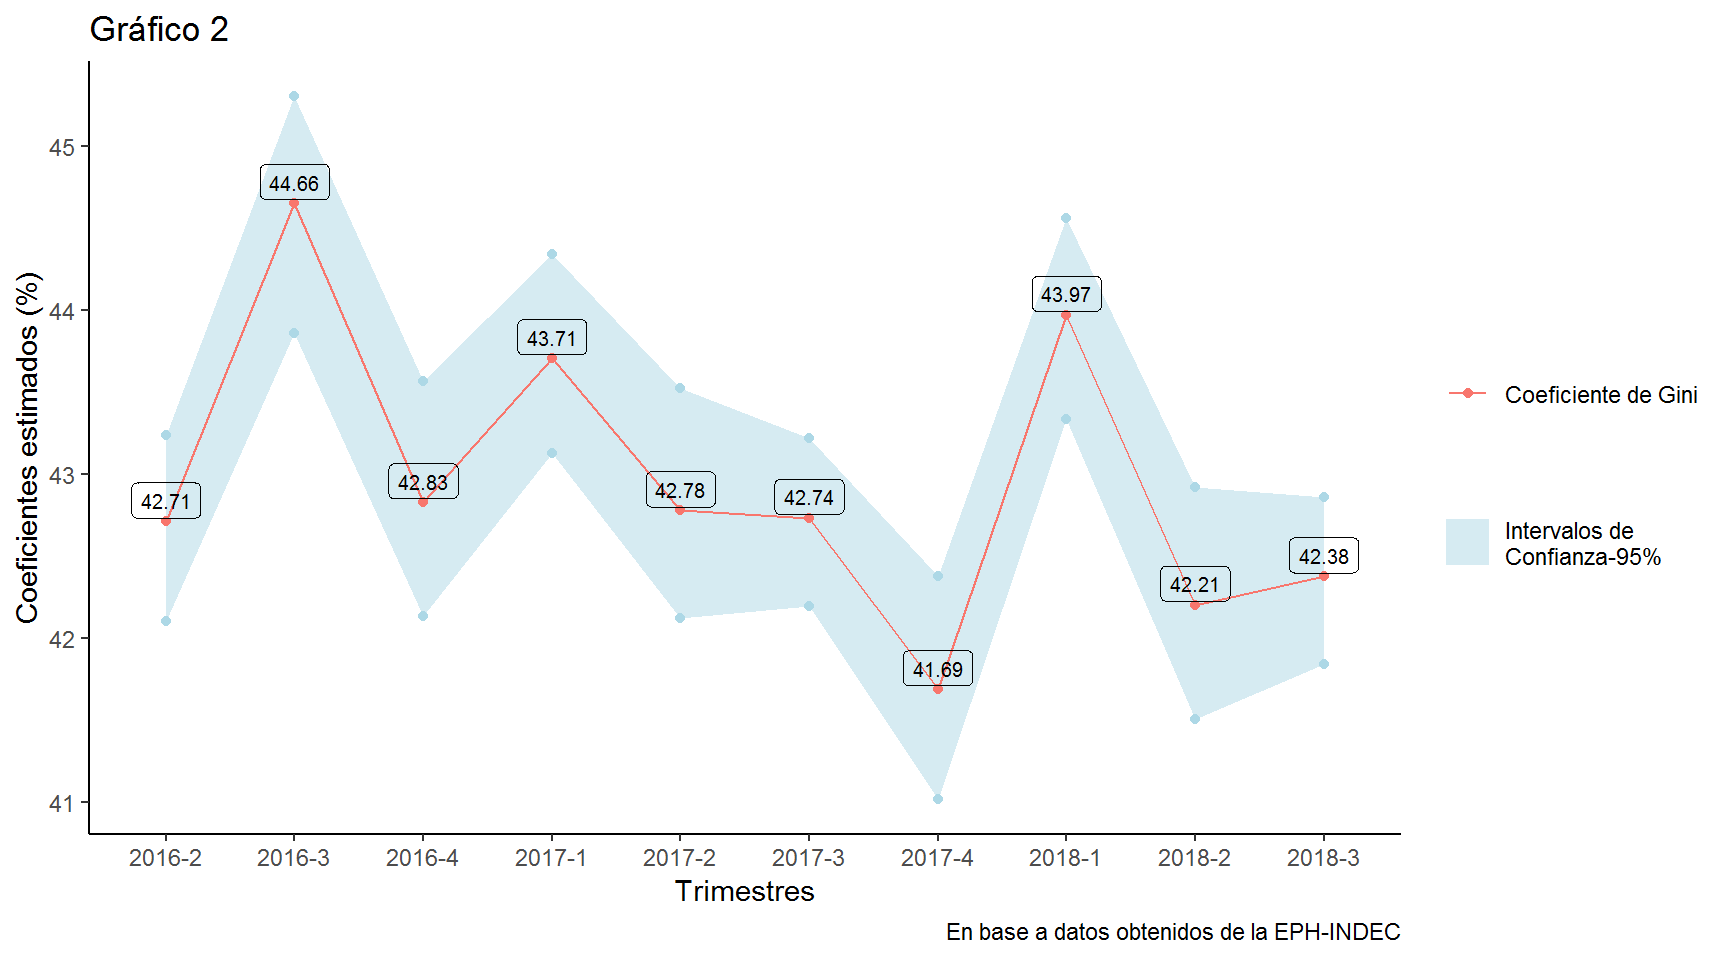
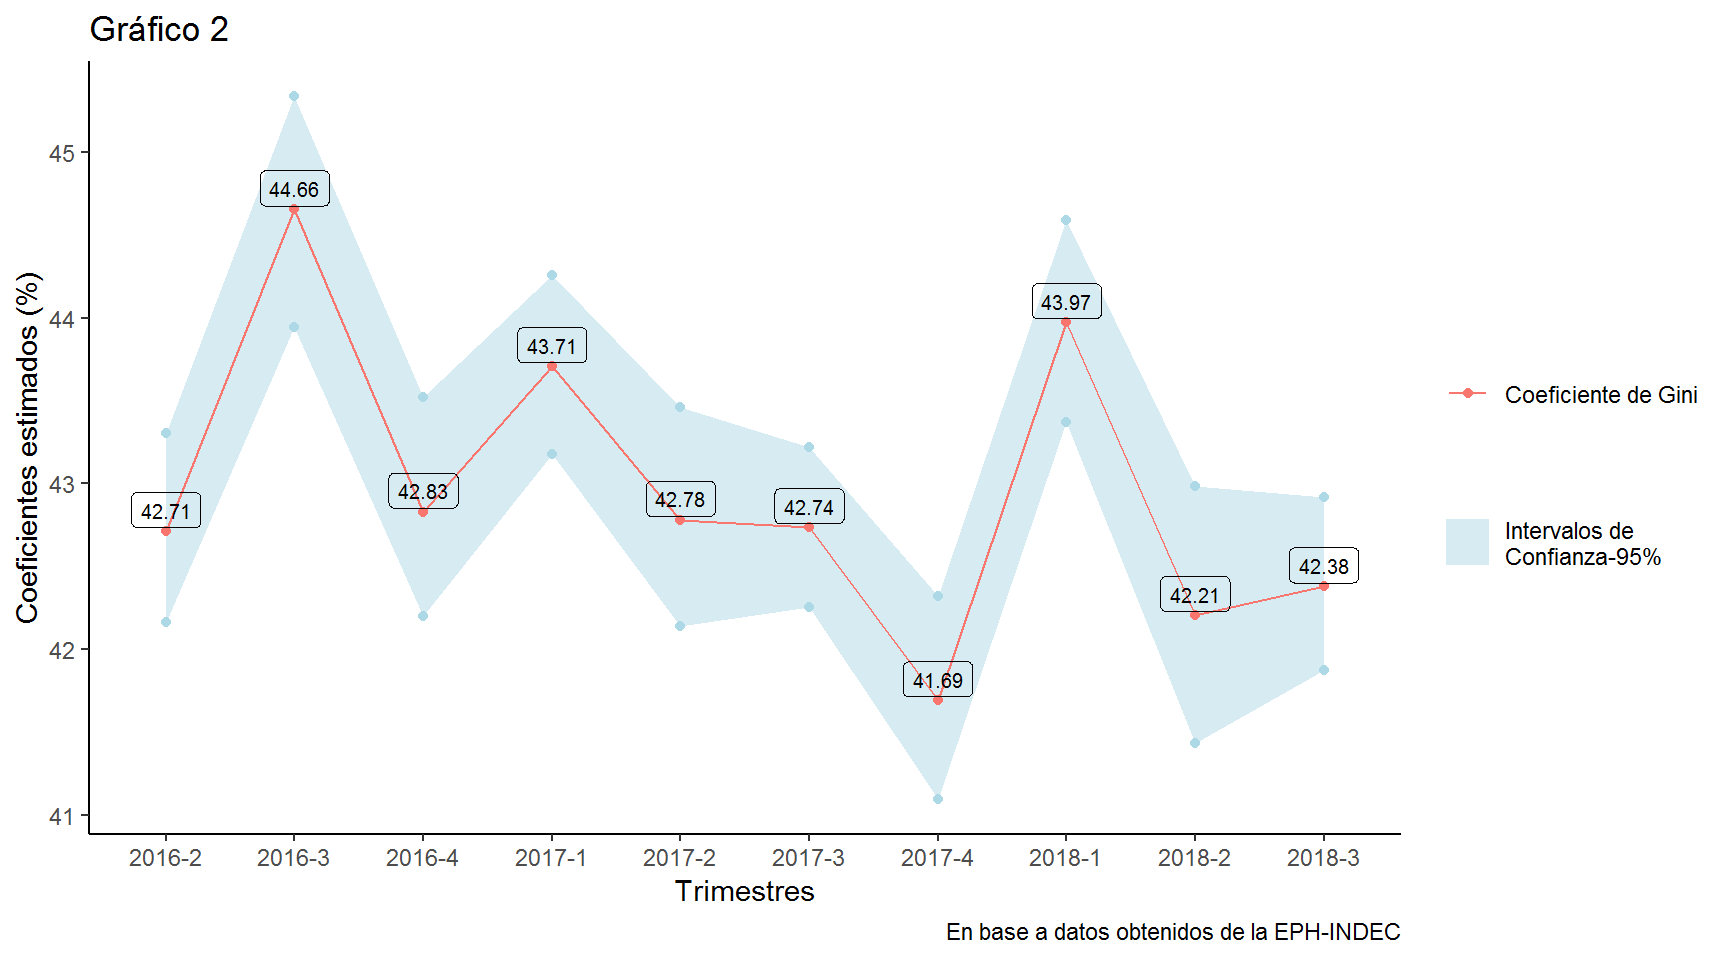
Corrección

diff --git a/Desigualdad_Monetaria.html b/Desigualdad_Monetaria.html
@@ -19,6 +19,8 @@
 <script type="https://cdnjs.cloudflare.com/ajax/libs/mathjax/2.7.5/MathJax.js">
 </script>
 
+
+
 <meta charset="utf-8" />
 <meta http-equiv="Content-Type" content="text/html; charset=utf-8" />
 <meta name="generator" content="pandoc" />
@@ -367,7 +369,7 @@ div.tocify {
 <p>Cuando la distribución es completamente igualitaria, el valor del coeficiente de Gini es 0. En el otro extremo, el hipotético caso en que un sólo un individuo concentrara todo el ingreso en su persona, el valor del coeficiente de Gini alcanzaría el uno.</p>
 <p>No existen ventajas empíricas del cálculo del coeficiente de Gini en base a las discrepancias promedio de ingreso(en valor absoluto) en relación a la fórmula alternativa relacionada con la curva de Lorenz, cómo señala Walter Sosa Escudero<a href="#fn4" class="footnote-ref" id="fnref4"><sup>4</sup></a> en su nota , ya que de cualquier manera se obtienen indicadores de Gini consistentes.</p>
 <p><img src="Desigualdad_Monetaria_files/figure-html/boot-1.png" width="864" style="display: block; margin: auto;" /></p>
-<p>En el gráfico dos se computaron los coeficientes de Gini para la serie completa de la EPH tras la emergencia estadística. Se utilizó cómo variable al ingreso per cápita familiar (IPCF), la misma variable empleada para construir la curva de Lorenz del gráfico anterior. Dado que los intervalos de confianza estimados mediante un bootstrap simple de 200 repeticiones se superponen para el segundo y tercer trimestre de 2018, el aumento en el coeficiente de Gini estimado para el último trimestre no sería significativo.</p>
+<p>En el gráfico dos se computaron los coeficientes de Gini para la serie completa de la EPH tras la emergencia estadística. Se utilizó cómo variable al ingreso per cápita familiar (IPCF), la misma variable empleada para construir la curva de Lorenz del gráfico anterior. Dado que los intervalos de confianza estimados mediante un bootstrap simple de 1000 repeticiones se superponen para el segundo y tercer trimestre de 2018, el aumento en el coeficiente de Gini estimado para el último trimestre no sería significativo.</p>
 <p>Una propiedad que se le exige a un índice de desigualdad es ser consistente ante las descomposiciones por grupos: si entre dos distribuciones la desigualdad en cada grupo (<em>within inequality</em> )medida por el índice no decrece y la desigualdad entre grupos tampoco cae(<em>between inequality</em>),la desigualdad agregada medida por dicho íncide no puede disminuir.</p>
 <p>El coeficiente de Gini no cumple con esta propiedad, aunque si puede ser descuempuesto por fuentes, por ejemplo, diversos tipos de ingreso.</p>
 <p>En el siguiente cuadro no se realiza una descomposición por fuente de ingreso del coeficiente de Gini, pero se compara la estimación original con la obtenida en el caso de otras dos variables monetarias:</p>
